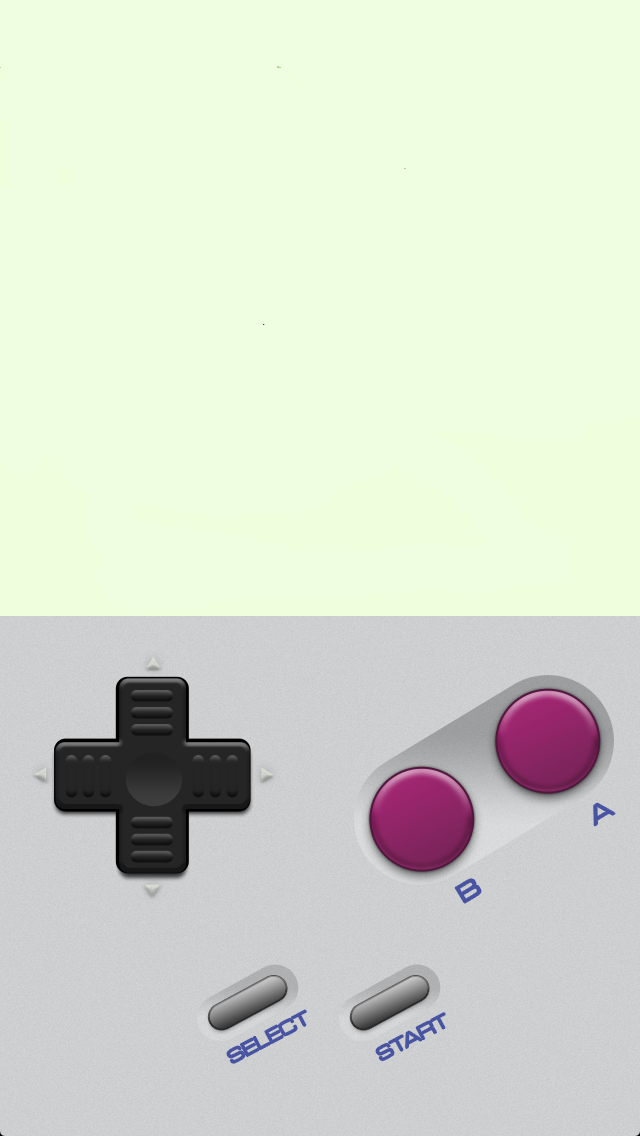
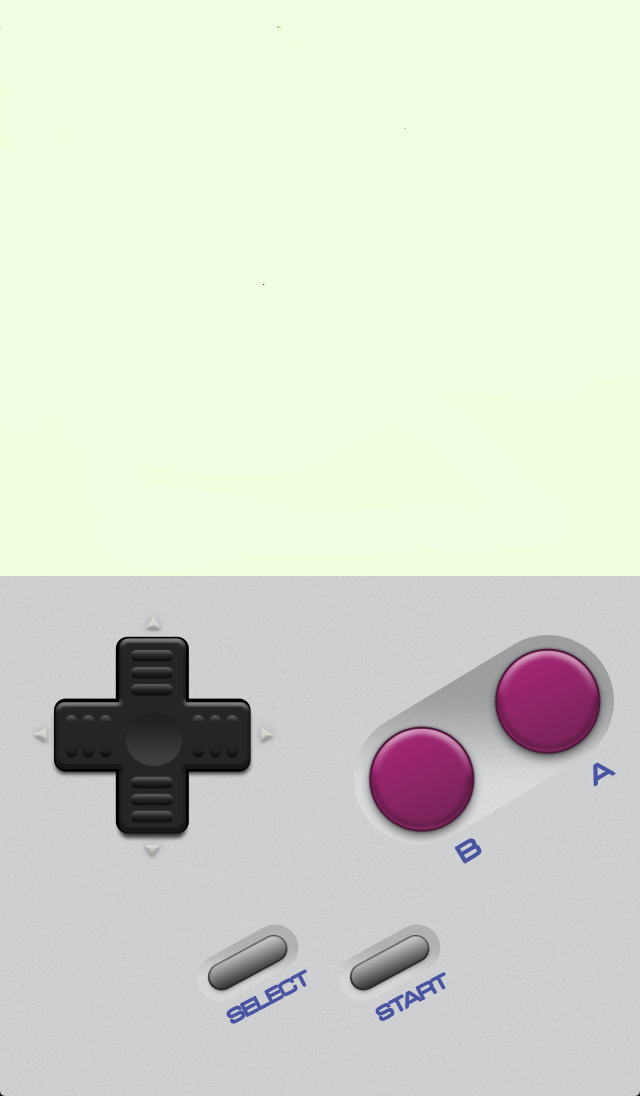
Fixing an issue with the holding screen failing to load.

diff --git a/src/index.html b/src/index.html
@@ -4,14 +4,9 @@
 
     <meta name="viewport" content="user-scalable=no, initial-scale=1.0, maximum-scale=1.0"/>
     <meta name="apple-mobile-web-app-capable" content="yes" />
-
     <meta name="apple-mobile-web-app-status-bar-style" content="black" />
-
-    <link rel="apple-touch-startup-image" href="images/Default.png" sizes="320x460" />
-    <link rel="apple-touch-startup-image" href="images/Default-568h@2x.png" sizes="640x1096">
-
+    <link href="Images/Default-568h@2x.png" rel="apple-touch-startup-image" sizes="640x1096">
     <link rel="stylesheet" href="css/gameboy.css" type="text/css" media="screen, mobile" title="main" charset="utf-8">
-
     <link rel="apple-touch-icon-precomposed" href="images/icon_2x.png" />
 
     <title>Game Play</title>
